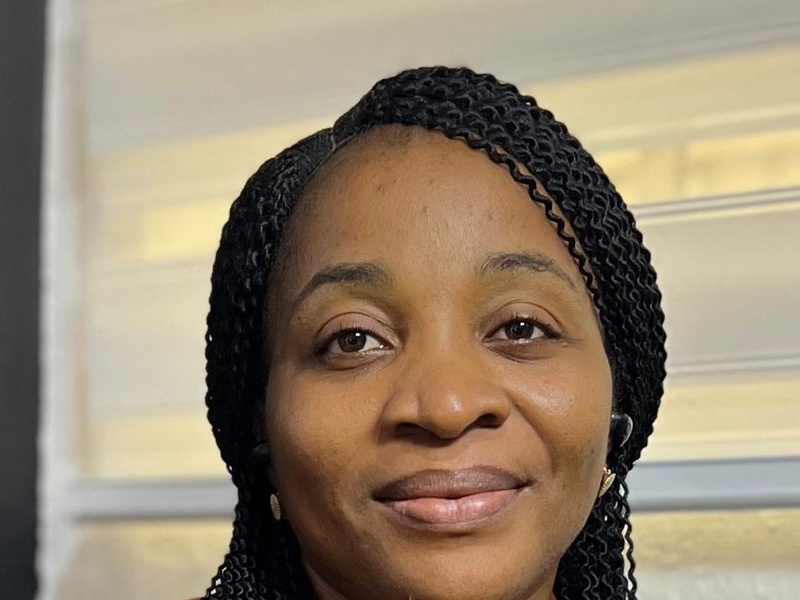
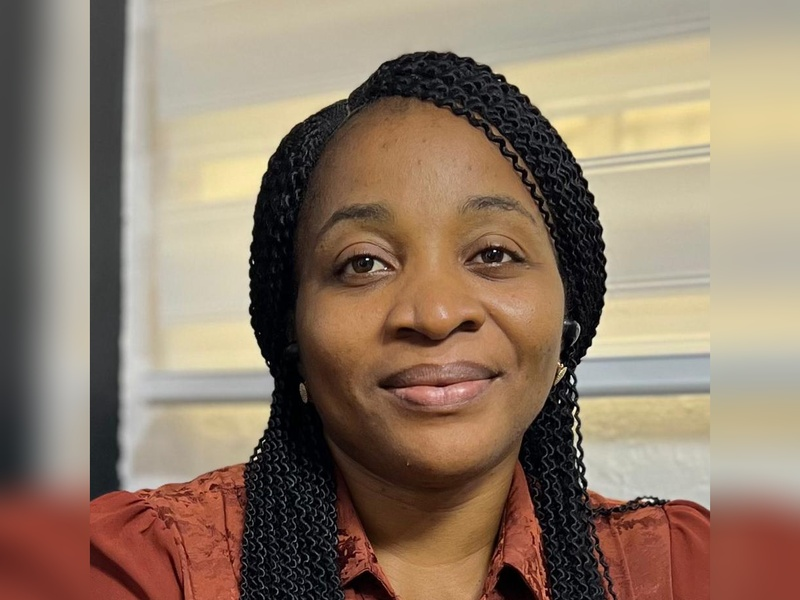
fix: pad and center portrait images to ensure chins and faces are never cut off

diff --git a/src/app/about/executives/ExecutivesClient.tsx b/src/app/about/executives/ExecutivesClient.tsx
@@ -323,7 +323,7 @@ export function ExecutivesClient() {
                     src={member.image}
                     alt={member.name}
                     fill
-                    className="object-cover object-top"
+                    className="object-cover object-center"
                   />
                   <div
                     className={`absolute top-3 right-3 font-montserrat font-bold text-[10px] uppercase tracking-wider px-2.5 py-0.5 rounded shadow-xs ${
